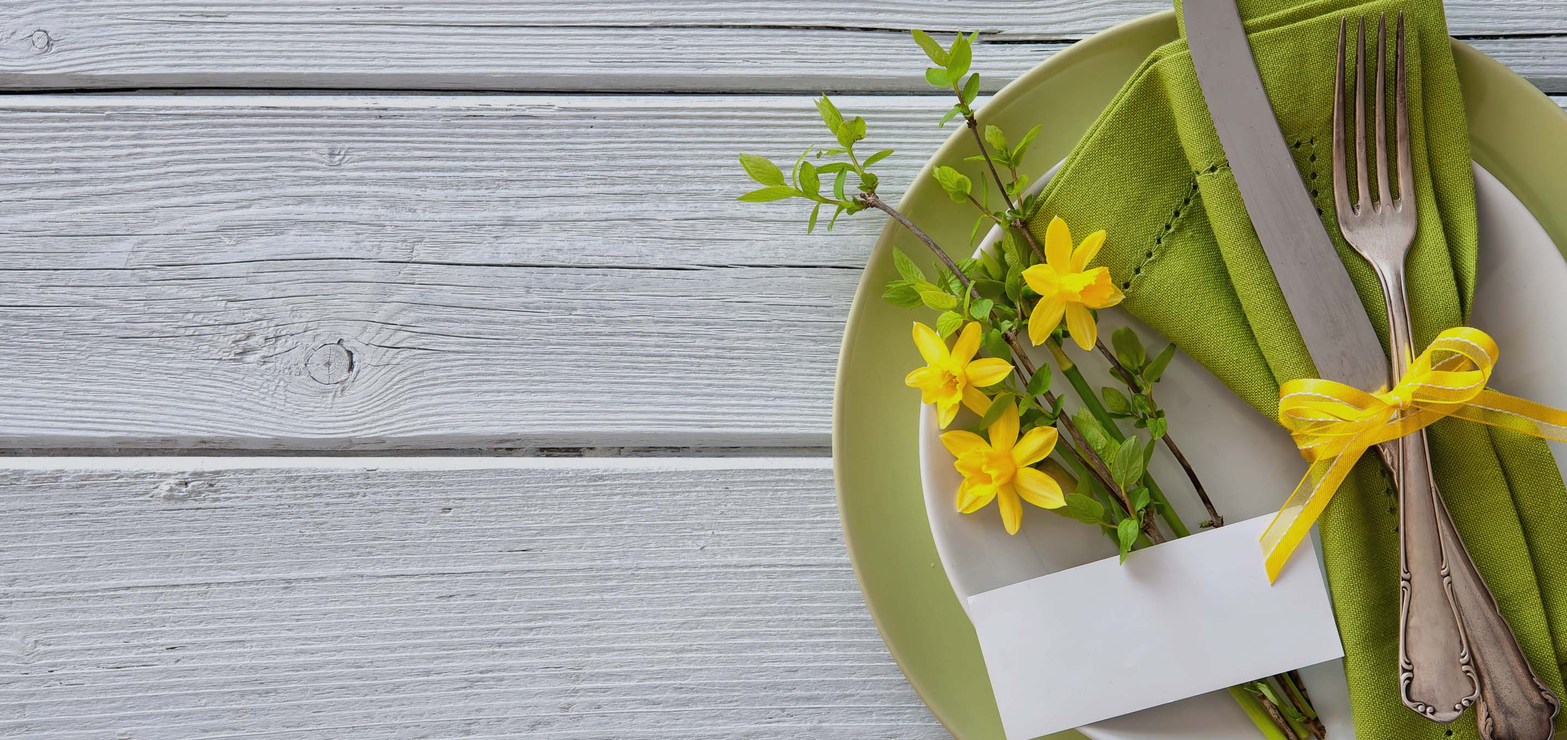
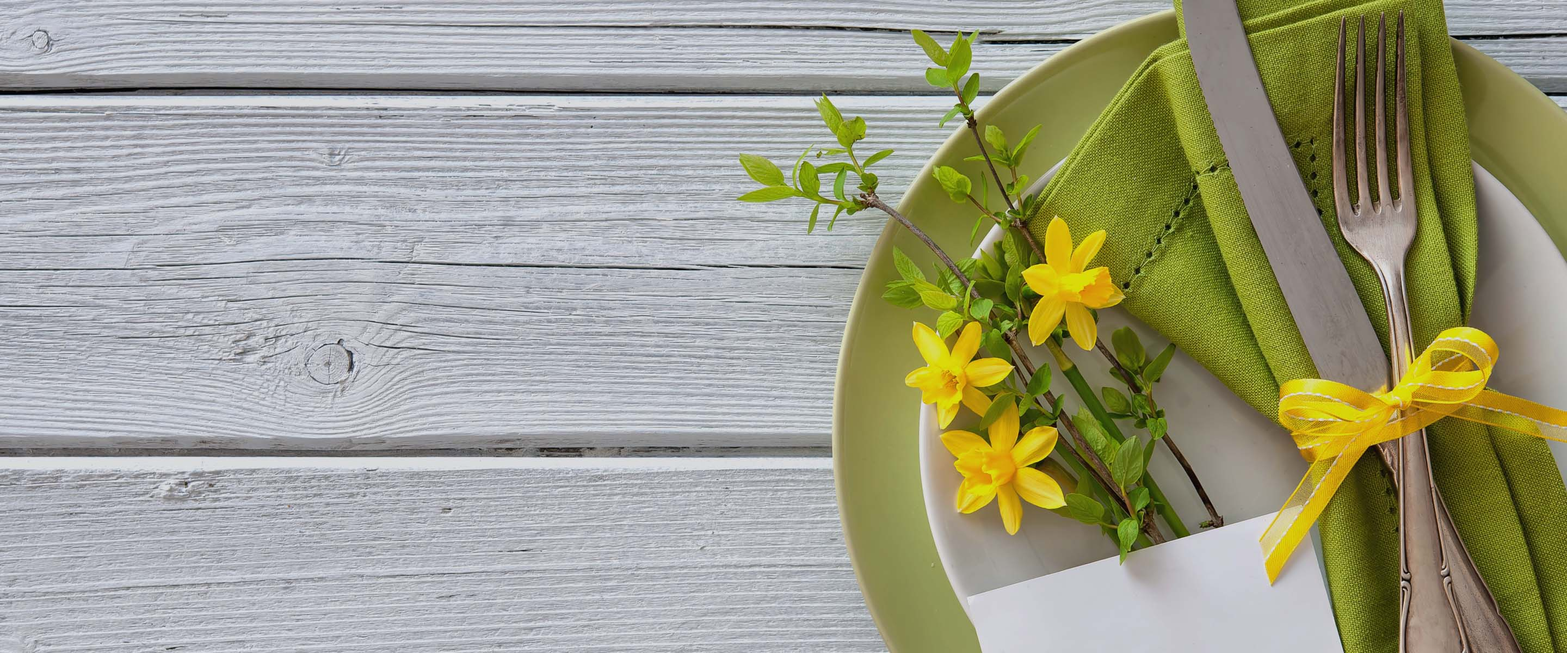
rm 3rd img, height to 600px

diff --git a/src/pages/home/home-page.jsx b/src/pages/home/home-page.jsx
@@ -38,12 +38,6 @@ const mainBlocks = [
     title: 'BRUNCH FAVORITES',
     action: { title: 'Shop Now', link: '/BRUNCH' },
   },
-  {
-    imageUrl: '/images/home-page/April15_3.jpg',
-    description: '',
-    title: 'SEE WHAT’S NEW ON THE MENU',
-    action: { title: 'Shop Now', link: '/NEW' },
-  },
 ];
 
 const magazineLogos = [

diff --git a/src/pages/home/action-block.css b/src/pages/home/action-block.css
@@ -102,7 +102,7 @@
 
 @media (--large) {
   .header {
-    height: 680px;
+    height: 600px;
 
     &:nth-child(odd) {
       text-align: left;
